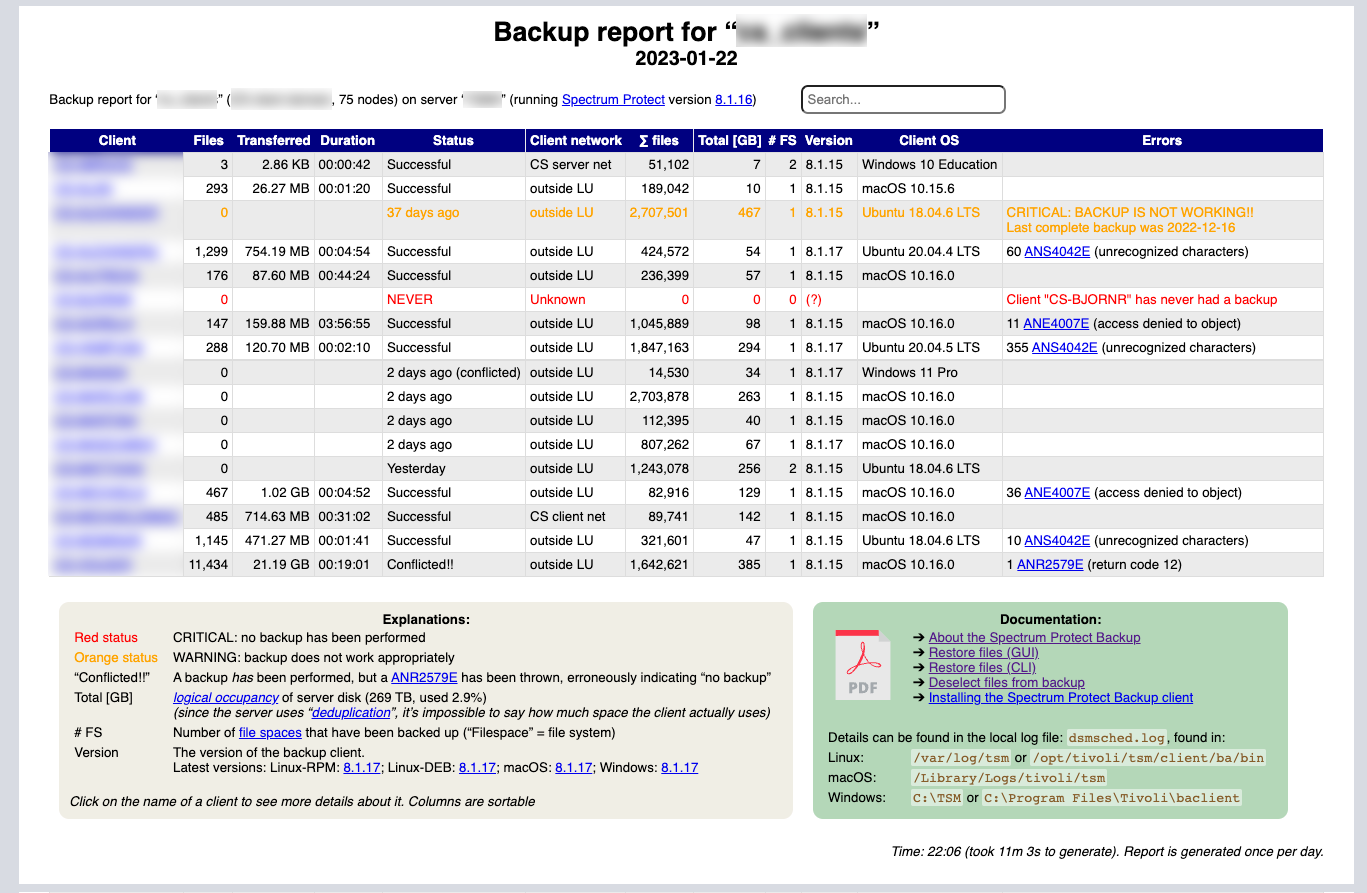
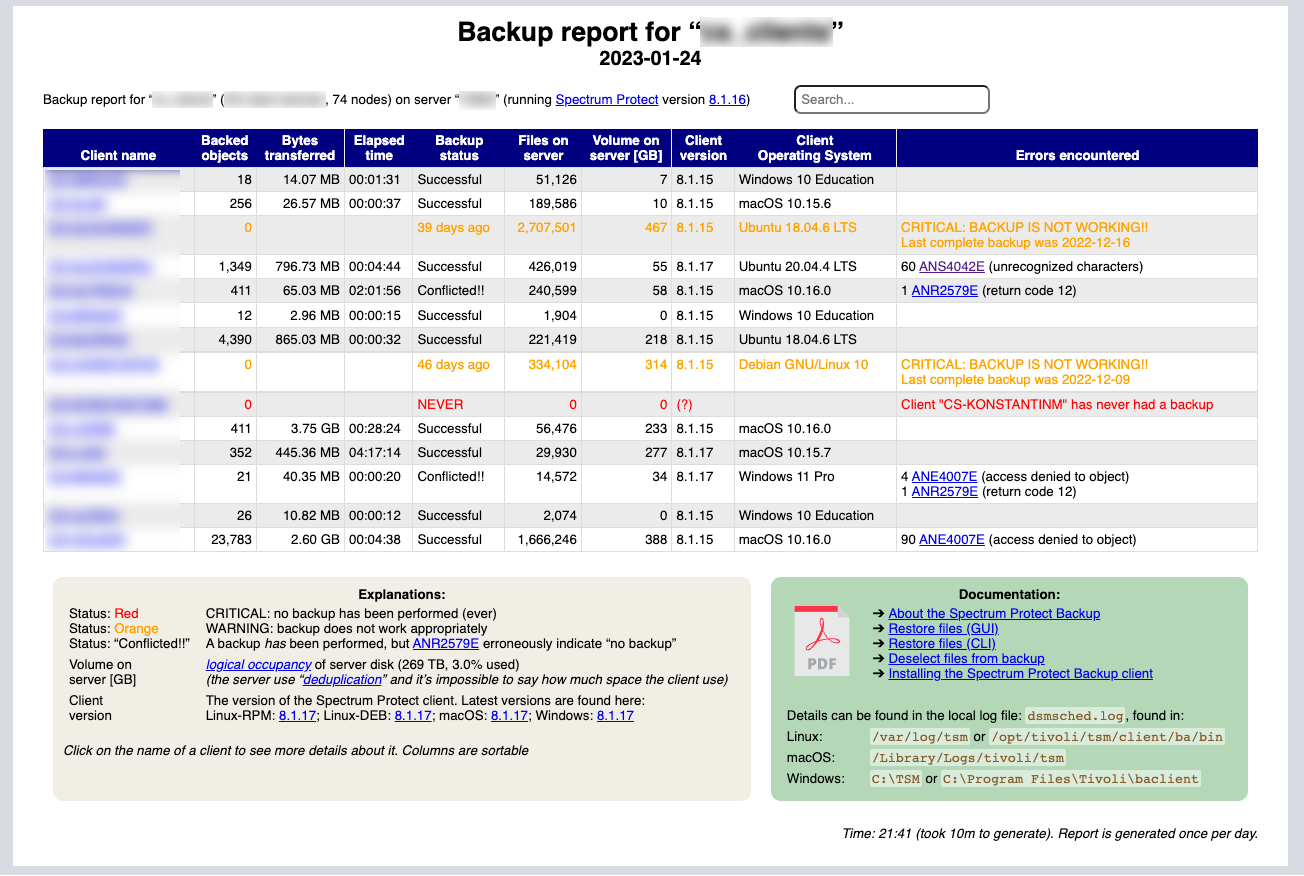
Numerous changes

Changed region(s): [[0.0, 0.0, 1.0, 1.0], [0.6135, 0.0308, 0.6442, 0.0616]]

diff --git a/report_end.html b/report_end.html
@@ -6,29 +6,17 @@
       <h4>Explanations:</h4>
       <table id="explanations">
         <tr>
-          <td><p style="color: red" align="left">Red status</p></td>
-          <td>CRITICAL: no backup has been performed</td>
-        </tr>
+          <td><p align="left">Status: <span style="color: red">Red</span><br>Status: <span style="color: orange">Orange</span><br>Status: “Conflicted!!”</p></td>
+          <td>CRITICAL: no backup has been performed (ever)<br>WARNING: backup does not work appropriately<br>A backup <em>has</em> been performed, but <a href="https://www.ibm.com/docs/en/spectrum-protect/8.1.16?topic=list-anr0010w#ANR2579E" target="_blank" rel="noopener noreferrer">ANR2579E</a> erroneously indicate “no backup”</td>
+        </tr>      
         <tr>
-          <td><p style="color: orange" align="left">Orange status</p></td>
-          <td>WARNING: backup does not work appropriately</td>
+          <td>Volume on<br>server&nbsp;[GB]</td>
+          <td><em><a href="https://www.ibm.com/docs/en/spectrum-protect/8.1.17?topic=glossary#gloss_L__x2153899" target="_blank" rel="noopener noreferrer">logical occupancy</a></em> of server disk STORAGE<br><em>(the server use “<a href="https://www.ibm.com/docs/en/spectrum-protect/8.1.17?topic=glossary#gloss_D__x3458980" target="_blank" rel="noopener noreferrer">deduplication</a>” and it’s impossible to say how much space the client use)</em></td>
         </tr>
+        <!--<tr><td valign="top"># FS</td><td>Number of <a href="https://www.ibm.com/docs/en/spectrum-protect/8.1.17?topic=glossary#gloss_F__x2153709" target="_blank" rel="noopener noreferrer">file spaces</a> that have been backed up (“Filespace” = file system)</td></tr>-->
         <tr>
-          <td>“Conflicted!!”</td>
-          <td>A backup <em>has</em> been performed, but a <a href="https://www.ibm.com/docs/en/spectrum-protect/8.1.16?topic=list-anr0010w#ANR2579E" target="_blank" rel="noopener noreferrer">ANR2579E</a> has been thrown, erroneously indicating “no backup”</td>
-        </tr>
-        <tr>
-          <td>Total&nbsp;[GB]</td>
-          <td><em><a href="https://www.ibm.com/docs/en/spectrum-protect/8.1.17?topic=glossary#gloss_L__x2153899" target="_blank" rel="noopener noreferrer">logical occupancy</a></em> of server disk STORAGE<br><em>(since the server uses “<a href="https://www.ibm.com/docs/en/spectrum-protect/8.1.17?topic=glossary#gloss_D__x3458980" target="_blank" rel="noopener noreferrer">deduplication</a>”, it’s impossible to say how much space the client actually uses)</em></td>
-        </tr>
-        <tr>
-          <td valign="top"># FS</td>
-          <td>Number of <a href="https://www.ibm.com/docs/en/spectrum-protect/8.1.17?topic=glossary#gloss_F__x2153709" target="_blank" rel="noopener noreferrer">file spaces</a> that have been backed up (“Filespace” = file system)</td>
-        </tr>
-        <tr>
-          <td>Version</td>
-          <td>The version of the backup client.<br>
-            Latest versions: 
+          <td>Client<br>version</td>
+          <td>The version of the Spectrum Protect client. Latest versions are found here:<br> 
             Linux-RPM: <a href="http://ftp.software.ibm.com/storage/tivoli-storage-management/maintenance/client/v8r1/Linux/LinuxX86/BA/" target="_blank" rel="noopener noreferrer">LINUXX86VER</a>; 
             Linux-DEB: <a href="http://ftp.software.ibm.com/storage/tivoli-storage-management/maintenance/client/v8r1/Linux/LinuxX86_DEB/BA/" target="_blank" rel="noopener noreferrer">LINUXX86DEBVER</a>; 
             macOS: <a href="http://ftp.software.ibm.com/storage/tivoli-storage-management/maintenance/client/v8r1/Mac/" target="_blank" rel="noopener noreferrer">MACOSVER</a>; 
@@ -44,11 +32,11 @@
         <table id="explanations">
           <tr><td colspan="2"><p><img src="https://fileadmin.cs.lth.se/intern/backup/cs/pdf.svg" width="70" height="70" alt="PDF-icon"></p></td><td>
           <div align="left">
-            <p>&#10132;&nbsp;<a href="https://lthin.lth.lu.se/download/18.5b76e7a8184b9280a4a18e5d/1669975867674/About_the_Spectrum_Protect_Backup.pdf" target="_blank" rel="noopener noreferrer">About the Spectrum Protect Backup</a></p>
-            <p>&#10132;&nbsp;<a href="https://lthin.lth.lu.se/download/18.5b76e7a8184b9280a4a18e5e/1669975867713/How_to_restore_files_from_the_Spectrum_Protect_backup.pdf" target="_blank" rel="noopener noreferrer">Restore files (GUI)</a></p>
-            <p>&#10132;&nbsp;<a href="https://lthin.lth.lu.se/download/18.5b76e7a8184b9280a4a18e5f/1669975867746/How_to_restore_files_from_the_Spectrum_Protect_backup_using_CLI.pdf" target="_blank" rel="noopener noreferrer">Restore files (CLI)</a></p>
-            <p>&#10132;&nbsp;<a href="https://lthin.lth.lu.se/download/18.5b76e7a8184b9280a4a18e60/1669975867763/Deselect_files_from_the_Spectrum_Protect_Backup.pdf" target="_blank" rel="noopener noreferrer">Deselect files from backup</a></p>
-            <p>&#10132;&nbsp;<a href="https://lthin.lth.lu.se/download/18.1a60868218529b3dca391a8e/1673615105281/Installing_the_client.pdf" target="_blank" rel="noopener noreferrer">Installing the Spectrum Protect Backup client</a></p>
+            <p>&#10132;&nbsp;<a href="https://fileadmin.cs.lth.se/intern/backup/About_the_Spectrum_Protect_Backup.pdf" target="_blank" rel="noopener noreferrer">About the Spectrum Protect Backup</a></p>
+            <p>&#10132;&nbsp;<a href="https://fileadmin.cs.lth.se/intern/backup/How_to_restore_files_from_the_Spectrum_Protect_backup.pdf" target="_blank" rel="noopener noreferrer">Restore files (GUI)</a></p>
+            <p>&#10132;&nbsp;<a href="https://fileadmin.cs.lth.se/intern/backup/How_to_restore_files_from_the_Spectrum_Protect_backup_using_CLI.pdf" target="_blank" rel="noopener noreferrer">Restore files (CLI)</a></p>
+            <p>&#10132;&nbsp;<a href="https://fileadmin.cs.lth.se/intern/backup/Deselect_files_from_the_Spectrum_Protect_Backup.pdf" target="_blank" rel="noopener noreferrer">Deselect files from backup</a></p>
+            <p>&#10132;&nbsp;<a href="https://fileadmin.cs.lth.se/intern/backup/Installing_the_client.pdf" target="_blank" rel="noopener noreferrer">Installing the Spectrum Protect Backup client</a></p>
           </div></td></tr>
         <tr><td colspan="3">&nbsp;</td></tr>
         <tr><td colspan="3"><p align="left">Details can be found in the local log file: <code>dsmsched.log</code>, found in:</p></td></tr>

diff --git a/report_one_end.html b/report_one_end.html
@@ -6,42 +6,44 @@
 </section>
 <p>&nbsp;</p>
 <section>
-<div id="box-documentation">
-  <h4>Documentation:</h4>
-  <div class="flexbox-container">
-    <table id="explanations">
+  <div id="box-documentation">
+    <h4>Documentation:</h4>
+    <div class="flexbox-container">
+      <table id="explanations">
+        <tr>
+          <td colspan="2"><p><img src="https://fileadmin.cs.lth.se/intern/backup/cs/pdf.svg" width="70" height="70" alt="PDF-icon"></p></td>
+          <td>
+            <div align="left">
+              <p>&#10132;&nbsp;<a href="https://fileadmin.cs.lth.se/intern/backup/About_the_Spectrum_Protect_Backup.pdf" target="_blank" rel="noopener noreferrer">About the Spectrum Protect Backup</a></p>
+              <p>&#10132;&nbsp;<a href="https://fileadmin.cs.lth.se/intern/backup/How_to_restore_files_from_the_Spectrum_Protect_backup.pdf" target="_blank" rel="noopener noreferrer">Restore files (GUI)</a></p>
+              <p>&#10132;&nbsp;<a href="https://fileadmin.cs.lth.se/intern/backup/How_to_restore_files_from_the_Spectrum_Protect_backup_using_CLI.pdf" target="_blank" rel="noopener noreferrer">Restore files (CLI)</a></p>
+              <p>&#10132;&nbsp;<a href="https://fileadmin.cs.lth.se/intern/backup/Deselect_files_from_the_Spectrum_Protect_Backup.pdf" target="_blank" rel="noopener noreferrer">Deselect files from backup</a></p>
+              <p>&#10132;&nbsp;<a href="https://fileadmin.cs.lth.se/intern/backup/Installing_the_client.pdf" target="_blank" rel="noopener noreferrer">Installing the Spectrum Protect Backup client</a></p>
+            </div>
+          </td>
+        </tr>
+        <tr>
+          <td colspan="3">&nbsp;</td>
+        </tr>
+        <tr>
+          <td colspan="3"><p align="left">Details can be found in the local log file, <code>dsmsched.log</code>,<br>found in LOGFILE</p></td>
+        </tr>
+      </table>
+    </div>
+  </div>
+</section>
+<footer>
+  <p>&nbsp;</p>
+  <div id="box1">
+    <table>
       <tr>
-        <td colspan="2"><p><img src="https://fileadmin.cs.lth.se/intern/backup/cs/pdf.svg" width="70" height="70" alt="PDF-icon"></p></td>
-        <td><div align="left">
-            <p>&#10132;&nbsp;<a href="https://lthin.lth.lu.se/download/18.5b76e7a8184b9280a4a18e5d/1669975867674/About_the_Spectrum_Protect_Backup.pdf" target="_blank" rel="noopener noreferrer">About the Spectrum Protect Backup</a></p>
-            <p>&#10132;&nbsp;<a href="https://lthin.lth.lu.se/download/18.5b76e7a8184b9280a4a18e5e/1669975867713/How_to_restore_files_from_the_Spectrum_Protect_backup.pdf" target="_blank" rel="noopener noreferrer">Restore files (GUI)</a></p>
-            <p>&#10132;&nbsp;<a href="https://lthin.lth.lu.se/download/18.5b76e7a8184b9280a4a18e5f/1669975867746/How_to_restore_files_from_the_Spectrum_Protect_backup_using_CLI.pdf" target="_blank" rel="noopener noreferrer">Restore files (CLI)</a></p>
-            <p>&#10132;&nbsp;<a href="https://lthin.lth.lu.se/download/18.5b76e7a8184b9280a4a18e60/1669975867763/Deselect_files_from_the_Spectrum_Protect_Backup.pdf" target="_blank" rel="noopener noreferrer">Deselect files from backup</a></p>
-            <p>&#10132;&nbsp;<a href="https://lthin.lth.lu.se/download/18.1a60868218529b3dca391a8e/1673615105281/Installing_the_client.pdf" target="_blank" rel="noopener noreferrer">Installing the Spectrum Protect Backup client</a></p>
-          </div></td>
-      </tr>
-      <tr>
-        <td colspan="3">&nbsp;</td>
-      </tr>
-      <tr>
-        <td colspan="3"><p align="left">Details can be found in the local log file, <code>dsmsched.log</code>,<br>found in LOGFILE</p></td>
+        <td><p><img src="https://fileadmin.cs.lth.se/intern/backup/cs/settings_icon.svg" width="40" alt="Settings-icon">&nbsp;&nbsp;</p></td>
+        <td><p align="left"><em>For admins only:</em><br>
+        <a href="https://$OC_SERVER/oc/gui#clients/detail?server=${ServerName}&resource=${client}&vmOwner=%20&target=%20&type=1&nodeType=1&ossm=0&nav=overview" target="_blank" rel="noopener noreferrer">Linkt to admin server</a></p>
+        </td>
       </tr>
     </table>
   </div>
-</div>
-</section>
-<footer>
-<p>&nbsp;</p>
-<div id=\"box1\">
-  <table>
-    <tr>
-      <td><p><img src=\"https://fileadmin.cs.lth.se/intern/backup/cs/settings_icon.svg\" width=\"40\" alt=\"Settings-icon\">&nbsp;&nbsp;</p></td>
-      <td><p align=\"left\"><em>For admins only:</em><br>
-        <a href=\"https://$OC_SERVER/oc/gui#clients/detail?server=${ServerName}&resource=${client}&vmOwner=%20&target=%20&type=1&nodeType=1&ossm=0&nav=overview\" target=\"_blank\" rel=\"noopener noreferrer\">Linkt to admin server</a></p>
-      </td>
-    </tr>
-  </table>
-</div>
 </footer>
 </div>
 </body>

diff --git a/report_head.html b/report_head.html
@@ -54,6 +54,7 @@ code { padding: 1px 2px; color: #875e29; background-color: #d9ebdb; border-radiu
     cursor: pointer;
     position: sticky;
 	top: 0;
+    vertical-align: bottom;
 }
 #jobe tr:nth-child(even) {
     background-color: white;
@@ -82,6 +83,7 @@ input[type=text]:focus {
 }
 #explanations {
     border-collapse: separate;
+	border-spacing: 3px;
 }
 #explanations td {
     padding-left: 3px;
@@ -205,18 +207,18 @@ function search_client() {
   <table id="jobe">
     <thead>
       <tr>
-        <th onclick="sortTable(0)">Client</th>
-        <th align="right" onclick="sortTable(1)">Files</th>
-        <th onclick="sortTable(2)">Transferred</th>
-        <th onclick="sortTable(3)">Duration</th>
-        <th onclick="sortTable(4)">Status</th>
-        <th onclick="sortTable(5)">Client network</th>
-        <th align="right" onclick="sortTable(6)">∑ files</th>
-        <th align="right" onclick="sortTable(7)">Total [GB]</th>
-        <th align="right" onclick="sortTable(8)"># FS</th>
-        <th onclick="sortTable(9)">Version</th>
-        <th onclick="sortTable(10)">Client OS</th>
-        <th onclick="sortTable(11)">Errors</th>
+        <th onclick="sortTable(0)">Client&nbsp;name</th>
+        <th align="right" onclick="sortTable(1)">Backed<br>objects</th>
+        <th onclick="sortTable(2)">Bytes<br>transferred</th>
+        <th onclick="sortTable(3)">Elapsed<br>time</th>
+        <th onclick="sortTable(4)">Backup<br>status</th>
+        <!--<th onclick="sortTable(5)">Client network</th>-->
+        <th align="right" onclick="sortTable(5)">Files on<br>server</th>
+        <th align="right" onclick="sortTable(6)">Volume on<br>server&nbsp;[GB]</th>
+        <!--<th align="right" onclick="sortTable(8)"># FS</th>-->
+        <th onclick="sortTable(7)">Client<br>version</th>
+        <th onclick="sortTable(8)">Client<br>Operating System</th>
+        <th onclick="sortTable(9)">Errors&nbsp;encountered</th>
       </tr>
     </thead>
     <tbody>
